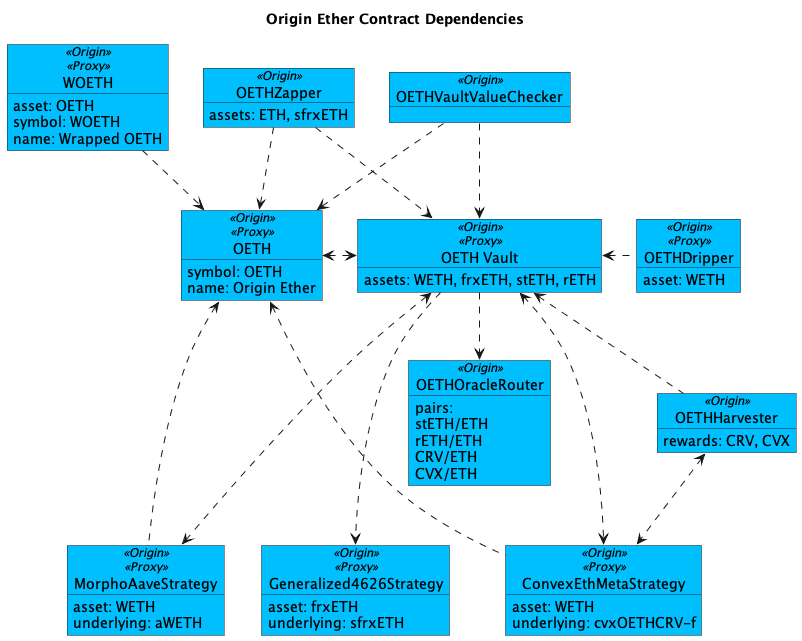
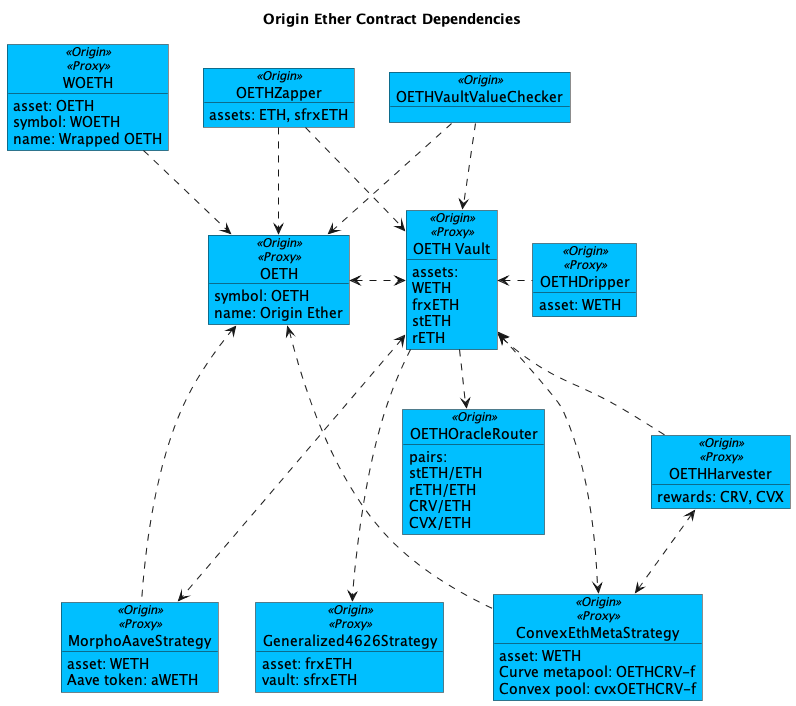
GITBOOK-185: Update contract dependencies

diff --git a/smart-contracts/registry/ousd-registry.md b/smart-contracts/registry/ousd-registry.md
@@ -1,8 +1,8 @@
 # OUSD Registry
 
-Most of Origin's contracts are upgradable via a well-known proxy wrapper and an implementation contract. The Vault is split into VaultAdmin and VaultCore to work around the maximum contract size limit on Ethereum
+Most of Origin's contracts are upgradable via a well-known proxy wrapper and an implementation contract. The Vault is split into VaultAdmin and VaultCore to work around the maximum contract size limit on Ethereum.
 
-<figure><img src="../../.gitbook/assets/ousdContracts.png" alt=""><figcaption><p>OUSD contract dependencies</p></figcaption></figure>
+<figure><img src="../../.gitbook/assets/ousdContracts.png" alt="OUSD contract dependencies"><figcaption><p>OUSD contract dependencies</p></figcaption></figure>
 
 **OUSD Core**
 
@@ -25,6 +25,8 @@ OUSD is backed by the following stablecoins:
 <table data-header-hidden><thead><tr><th width="136"></th><th></th></tr></thead><tbody><tr><td><a href="https://etherscan.io/address/0xdac17f958d2ee523a2206206994597c13d831ec7">USDT</a></td><td>0xdac17f958d2ee523a2206206994597c13d831ec7</td></tr><tr><td><a href="https://etherscan.io/address/0xa0b86991c6218b36c1d19d4a2e9eb0ce3606eb48">USDC</a></td><td>0xa0b86991c6218b36c1d19d4a2e9eb0ce3606eb48</td></tr><tr><td><a href="https://etherscan.io/address/0x6b175474e89094c44da98b954eedeac495271d0f">DAI</a></td><td>0x6b175474e89094c44da98b954eedeac495271d0f</td></tr></tbody></table>
 
 **Oracles**
+
+<table><thead><tr><th width="204">Contract</th><th>Address</th></tr></thead><tbody><tr><td>Oracle Router</td><td>0x7533365d1b0D95380bc4e94D0bdEF5173E43f954</td></tr></tbody></table>
 
 The following Chainlink oracles are used to protect the vault in case a backing asset loses value. They also offer slippage protection when harvesting rewards tokens.
 

diff --git a/smart-contracts/registry/oeth-registry.md b/smart-contracts/registry/oeth-registry.md
@@ -2,7 +2,7 @@
 
 Most of Origin's contracts are upgradable via a well-known proxy wrapper and an implementation contract. The Vault is split into VaultAdmin and VaultCore to work around the maximum contract size limit on Ethereum.
 
-<figure><img src="../../.gitbook/assets/oethContracts (1).png" alt=""><figcaption><p>OETH contract dependencies</p></figcaption></figure>
+<figure><img src="../../.gitbook/assets/oethContracts (3).png" alt="OETH contract dependencies"><figcaption><p>OETH contract dependencies</p></figcaption></figure>
 
 **OETH Core**
 
@@ -23,6 +23,8 @@ OETH is backed by WETH and the following liquid staking derivates:
 <table data-header-hidden><thead><tr><th width="183"></th><th></th></tr></thead><tbody><tr><td>WETH</td><td>0xc02aaa39b223fe8d0a0e5c4f27ead9083c756cc2</td></tr><tr><td>Lido stETH</td><td>0xae7ab96520de3a18e5e111b5eaab095312d7fe84</td></tr><tr><td>Rocketpool rETH</td><td>0xae78736cd615f374d3085123a210448e74fc6393</td></tr><tr><td>FRAX frxETH</td><td>0x5e8422345238f34275888049021821e8e08caa1f</td></tr></tbody></table>
 
 **Oracles**
+
+<table><thead><tr><th width="204">Contract</th><th>Address</th></tr></thead><tbody><tr><td>OETH Oracle Router</td><td>0x3cCD26E82F7305B12742fBb36708B42f82B61dBa</td></tr></tbody></table>
 
 The following Chainlink oracles are used to protect the vault in case a backing asset loses value. They also offer slippage protection when harvesting rewards tokens.
 
